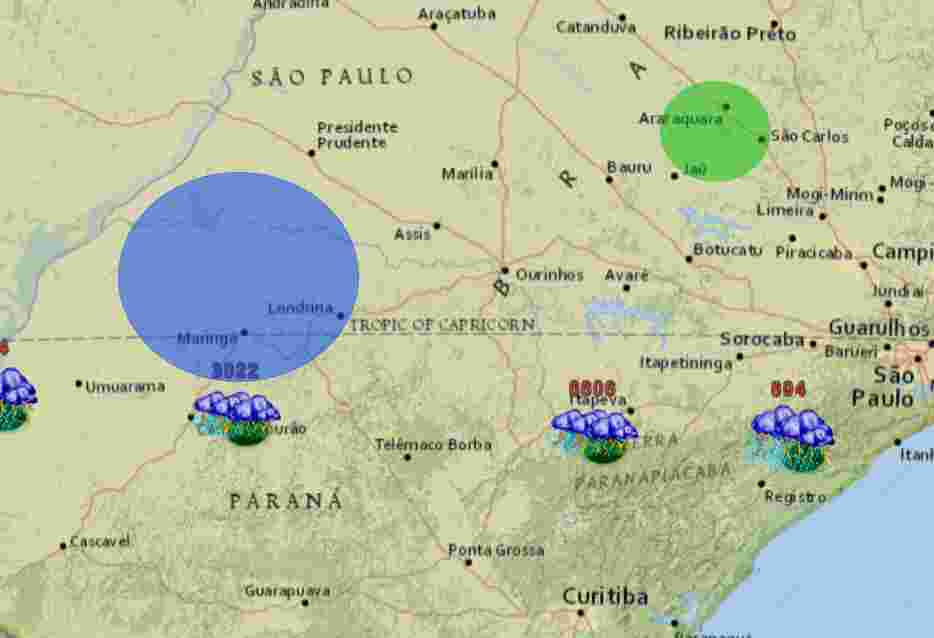
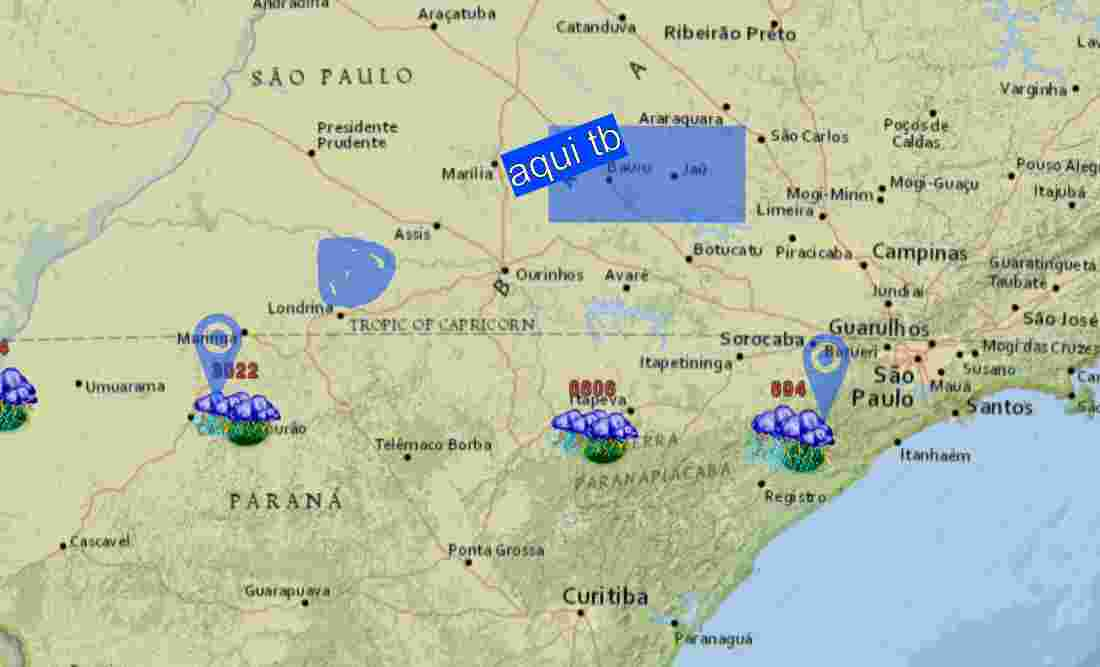
Adicionado nome do dono do elemento ao mover o mouse

diff --git a/ProjetoColaborativo/Scripts/paineis.js b/ProjetoColaborativo/Scripts/paineis.js
@@ -88,12 +88,65 @@ canvas1.on('object:selected', function (e) {
 
 });
 
-canvas1.on('selection:cleared', function() {
+canvas1.on('selection:cleared', function () {
     if (audio) {
         audio.pause();
     }
 
     $("#media-player-toolbar").fadeOut();
+});
+
+function getDadosUsuario(id, callback) {
+
+    $.ajax({
+        type: "GET",
+        url: window.location.pathname.replace("MostrarSessao", "GetDadosUsuario"),
+        data: { idusuario: id },
+        success: function (data) {
+            callback(data);
+        }
+    });
+
+}
+
+var c, f, b;
+canvas1.on('mouse:over', function (e) {
+    c = e.target.stroke;
+    e.target.stroke = c.replace("0.5", "1");
+
+    if (e.target.fill) {
+        f = e.target.fill;
+        e.target.fill = f.replace("0.5", "1");
+    }
+
+    if (e.target.textBackgroundColor) {
+        b = e.target.textBackgroundColor;
+        e.target.textBackgroundColor = b.replace("0.5", "1");
+    }
+    
+    getDadosUsuario(e.target.iddono, function (data) {
+        $("#elemento-tooltip-txt").html(data.Nome);
+        $("#elemento-tooltip").css("top", e.target.top);
+        $("#elemento-tooltip").css("left", e.target.left);
+        $("#elemento-tooltip").show();
+    });
+
+    canvas1.renderAll();
+});
+
+canvas1.on('mouse:out', function (e) {
+    if (e.target.fill) {
+        e.target.fill = f;
+    }
+
+    if (e.target.textBackgroundColor) {
+        e.target.textBackgroundColor = b;
+    }
+    e.target.stroke = c;
+
+    $("#elemento-tooltip").hide();
+
+    canvas1.renderAll();
 });
 
 function SaveObject(target, remover) {

diff --git a/ProjetoColaborativo/Content/paineis.css b/ProjetoColaborativo/Content/paineis.css
@@ -450,3 +450,7 @@ ul {
 .navbar {
     margin-bottom: 0;
 }
+
+label {
+    margin: 0;
+}

diff --git a/ProjetoColaborativo/Controllers/VimapsController.cs b/ProjetoColaborativo/Controllers/VimapsController.cs
@@ -70,6 +70,24 @@ namespace ProjetoColaborativo.Controllers
             return Json("ok", JsonRequestBehavior.AllowGet);
         }
 
+        
+        [Authorize]
+        public ActionResult GetDadosUsuario(long idusuario)
+        {
+            var u = _repositorioUsuarios.Retornar(idusuario);
+            if (u != null)
+                return Json(new
+                {
+                    u.Id,
+                    u.Email,
+                    u.Login,
+                    u.Nome,
+                    u.Foto
+                }, JsonRequestBehavior.AllowGet);
+
+            return null;
+        }
+
         [HttpPost]
         [Authorize]
         public ActionResult OrdenarObjeto(long id, long objetoid, long idanterior, long idreordenar)
